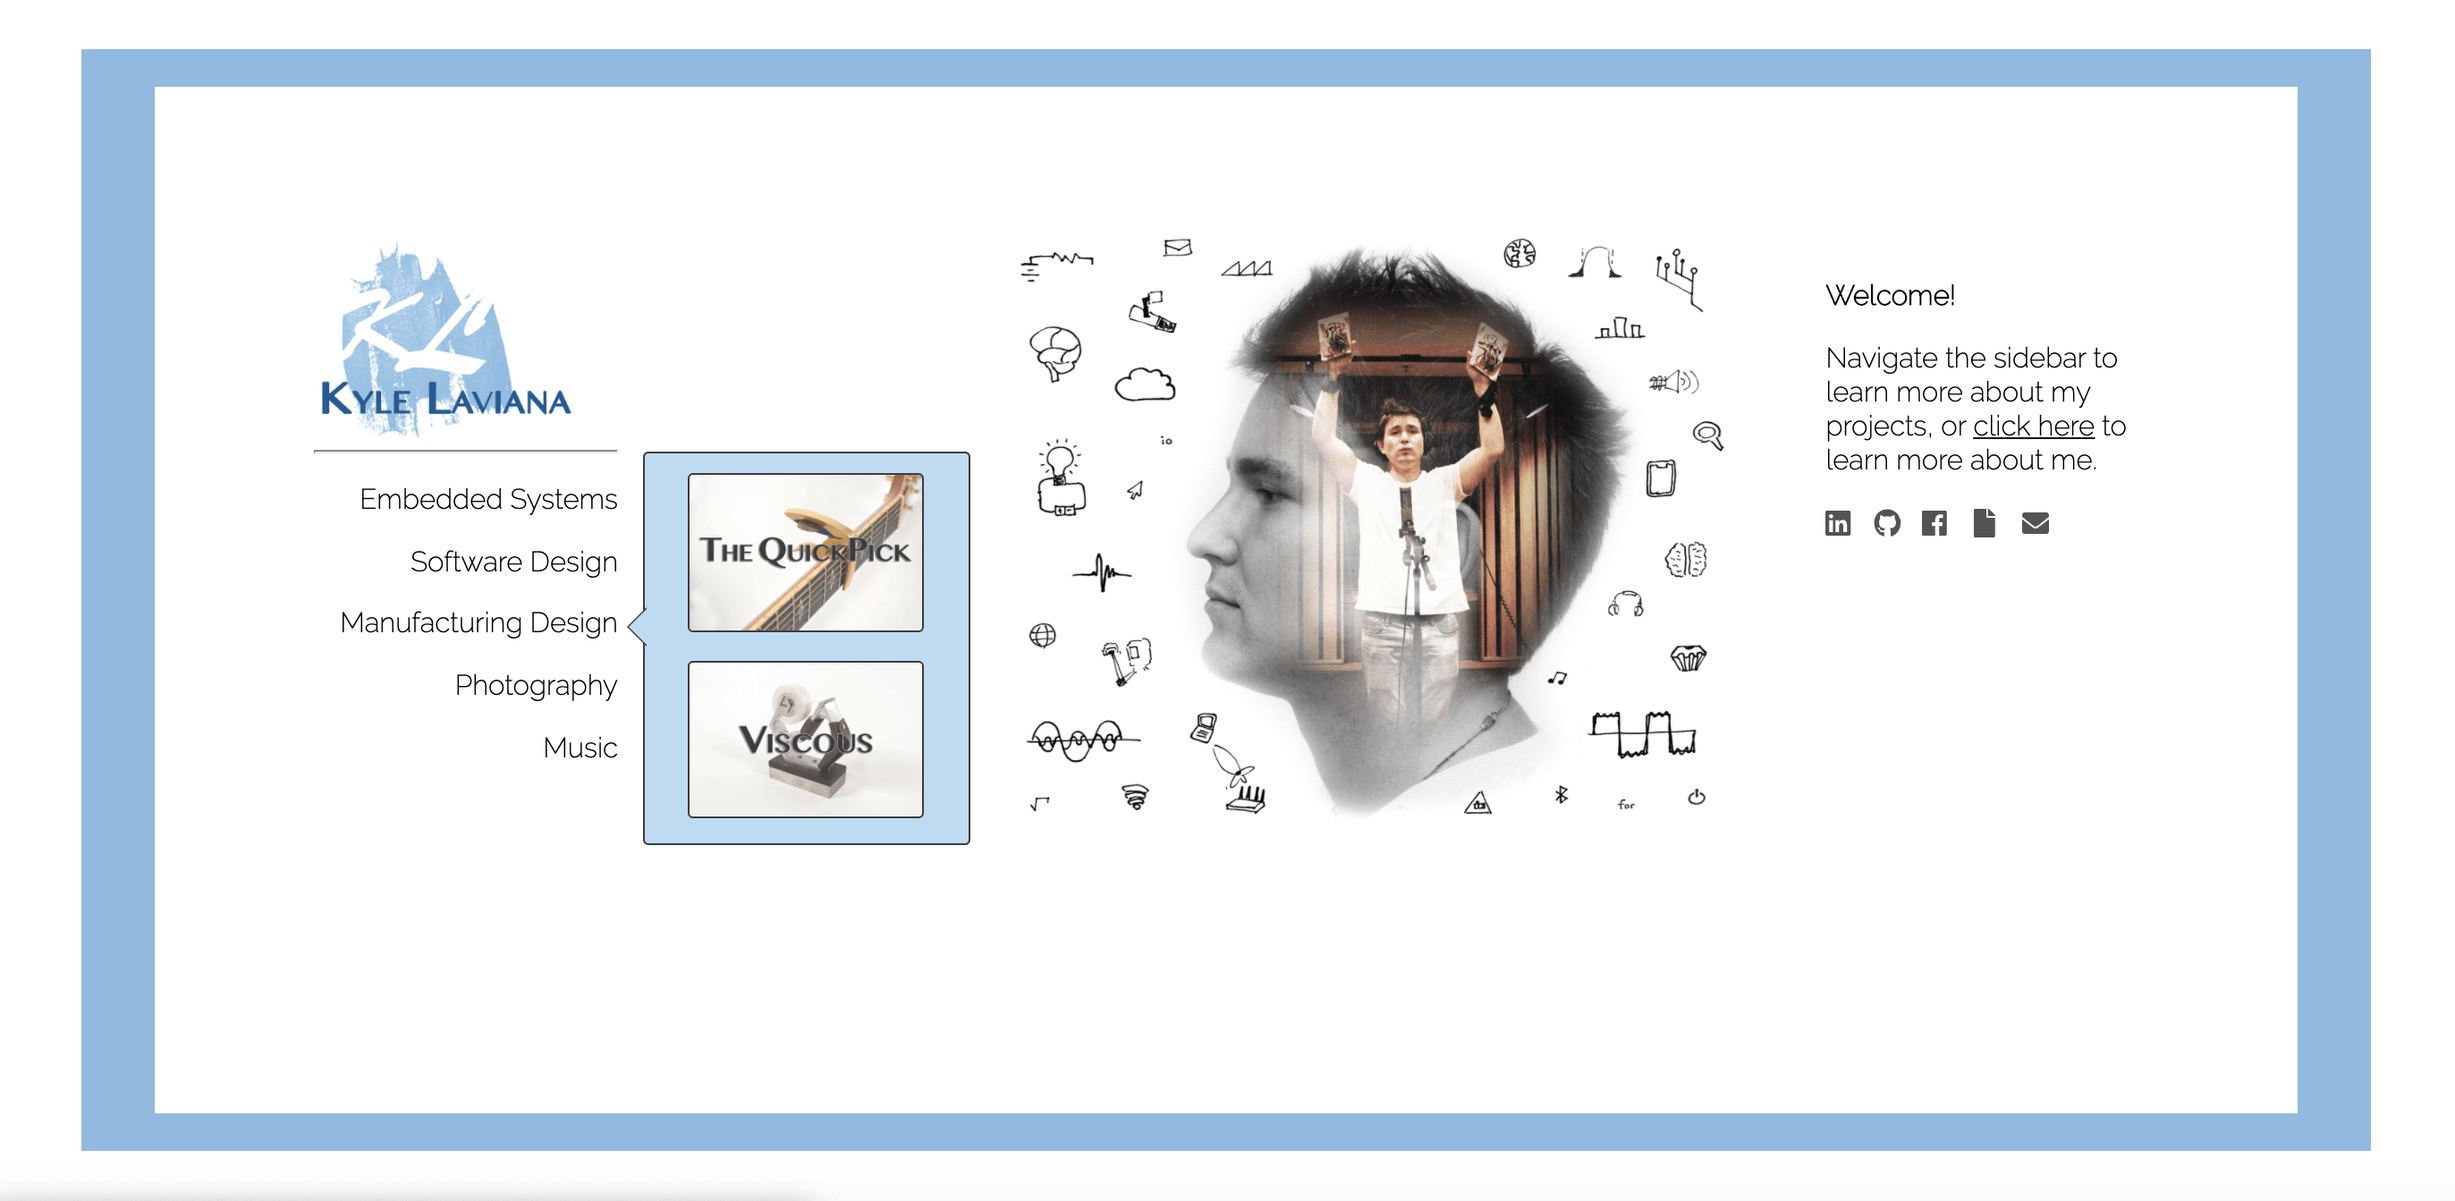
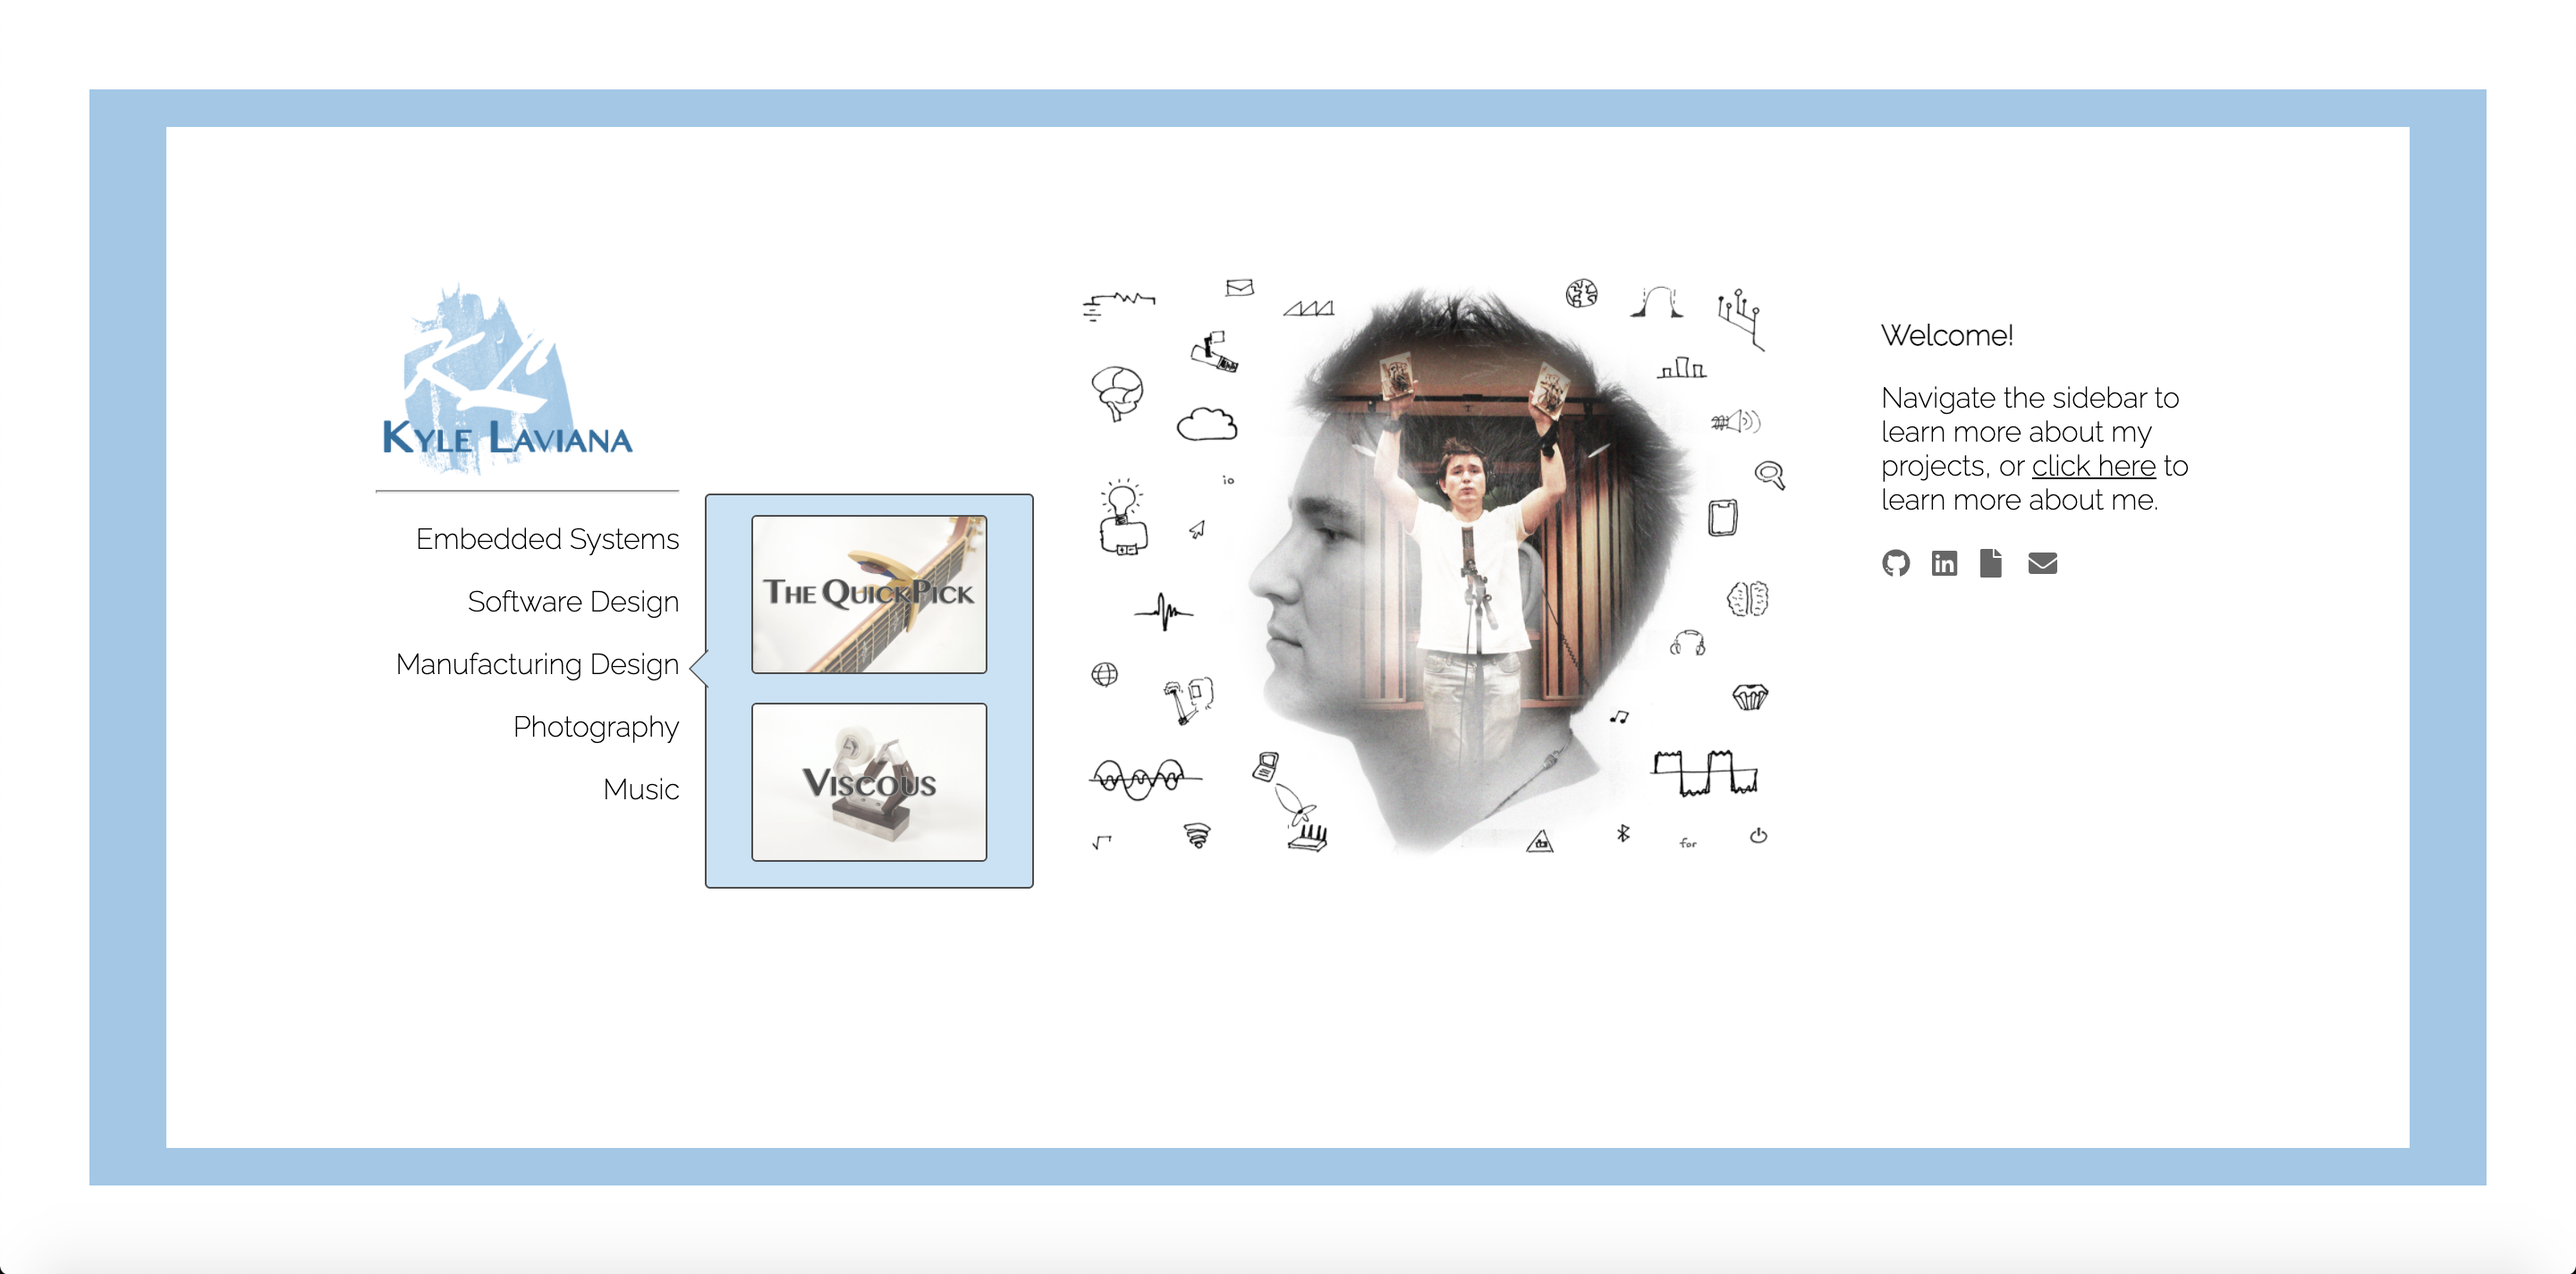
screenshot/media tooltips

diff --git a/index.html b/index.html
@@ -111,12 +111,14 @@
                         </a>
                         <p class="socialMediaTooltipInfo"> <span class="info">LinkedIn</span> </p>
                     </div>
+                    <!--
                     <div class="socialMediaTooltip">
-                        <a href="https://www.facebook.com/kyle.laviana" target="_blank">
-                            <span class="fab fa-facebook hvr-grow" style="padding-right: 0.7em"></span>
+                        <a href="https://luhkee.biz" target="_blank">
+                            <span class="fas fa-bolt hvr-grow" style="padding-right: 0.7em"></span>
                         </a>
-                        <p class="socialMediaTooltipInfo"> <span class="info">Facebook</span> </p>
+                        <p class="socialMediaTooltipInfo"> <span class="info">Kee</span> </p>
                     </div>
+                    -->
                     <div class="socialMediaTooltip">
                         <a href="Laviana_Resume.pdf" target="_blank">
                             <span class="fa fa-file hvr-grow" style="padding-right: 0.7em"></span>
